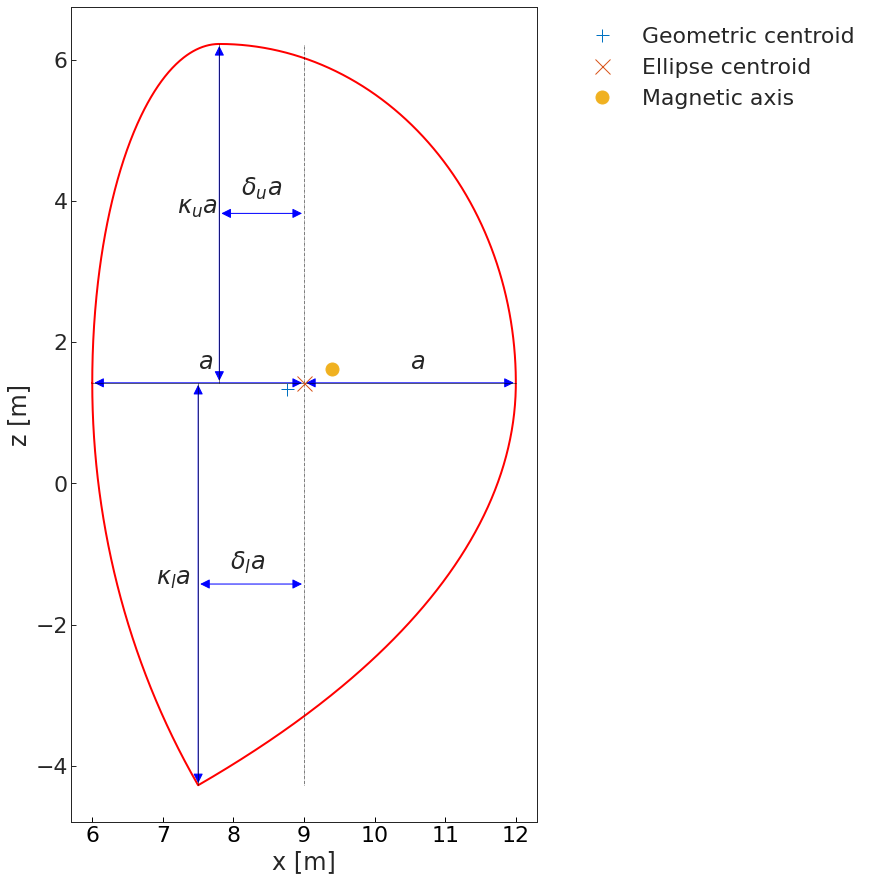
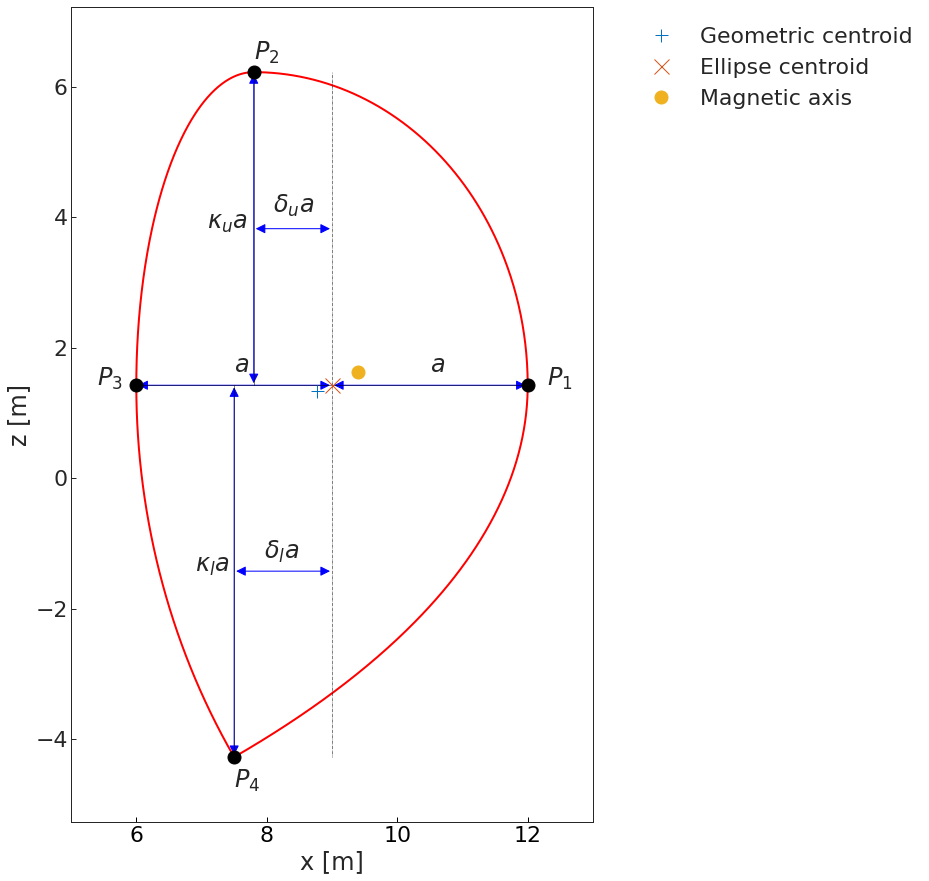
finish draft doc

diff --git a/documentation/source/equilibria/equilibria.rst b/documentation/source/equilibria/equilibria.rst
@@ -13,26 +13,70 @@ Flux surface geometry
 ^^^^^^^^^^^^^^^^^^^^^
 
 Flux surface geometry parameters are defined with respect to the centre of the plasma,
-which is defined as ...
+which is defined as the centroid of the reference ellipse (assuming symmetry).
 
 .. figure:: flux_surface_geometry.png
    :name: fig:flux_surface_geometry
 
-   Diagram depicting a typical flux surface, showing how key quantities are calculated.
+   Diagram depicting a typical flux surface, showing how key shape characteristics are
+   calculated.
+
+Note that the centroid of the reference ellipse, :math:`C`, from which the shape characteristics are
+calculated, is neither the geometric centroid of the flux surface, nor the magnetic axis.
+
+As such, the shape characteristics of a flux surface are purely geometrical.
+
+The extrema of the flux surface are defined here (for convenience) as :math:`P_1, P_2, P_3, P_4`,
+starting from the outboard midplane and heading anti-clockwise.
+
+The major radius is calculated as:
+
+.. math::
+   :label: major_radius
+
+   R_0 = x_{P_{3}} + \dfrac{x_{P_{1}}-x_{P_{3}}}{2}
+
+The minor radius is calculated as:
+
+.. math::
+   :label: minor_radius
+
+   a = \dfrac{x_{P_{1}}-x_{P_{3}}}{2}
+
+The aspect ratio is calculated as:
+
+.. math::
+   :label: aspect_ratio
+
+   A = \dfrac{R_0}{a}
+
+The upper and lower elongations are calculated as:
+
+.. math::
+   :label: elongation
 
 
-Major radius
+   \begin{aligned}
+   \kappa_{u} =& \dfrac{z_{P_{2}}-z_C}{a}\\
+   \kappa_{l} = & \dfrac{z_C-z_{P_{4}}}{a}\end{aligned}
 
-Minor radius
+The upper and lower triangularities are calculated as:
 
-Aspect ratio
+.. math::
+   :label: triangularity
 
-Elongation
+   \begin{aligned}
+   \delta_{u}&=\dfrac{x_C-x_{P_{2}}}{a}
+   \delta_{l}&=\dfrac{x_C-x_{P_{4}}}{a}\end{aligned}
 
-Triangularity
+The outer upper and lower squarenesses are calculated as:
 
-Squareness
+.. math::
+   :label: squareness
 
+   \begin{aligned}
+   \zeta_{u}&=1\\
+   \zeta_{l}&=1\end{aligned}
 
 Theory
 ------
